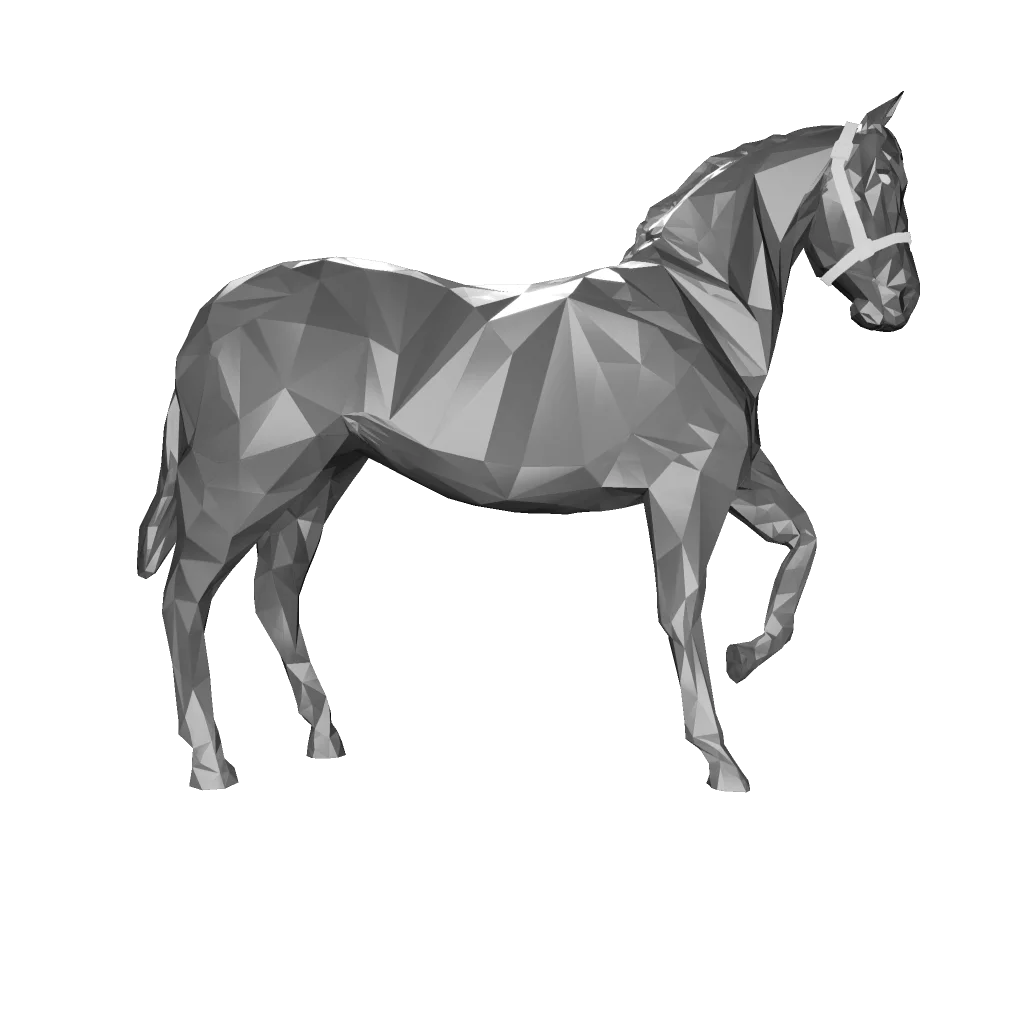
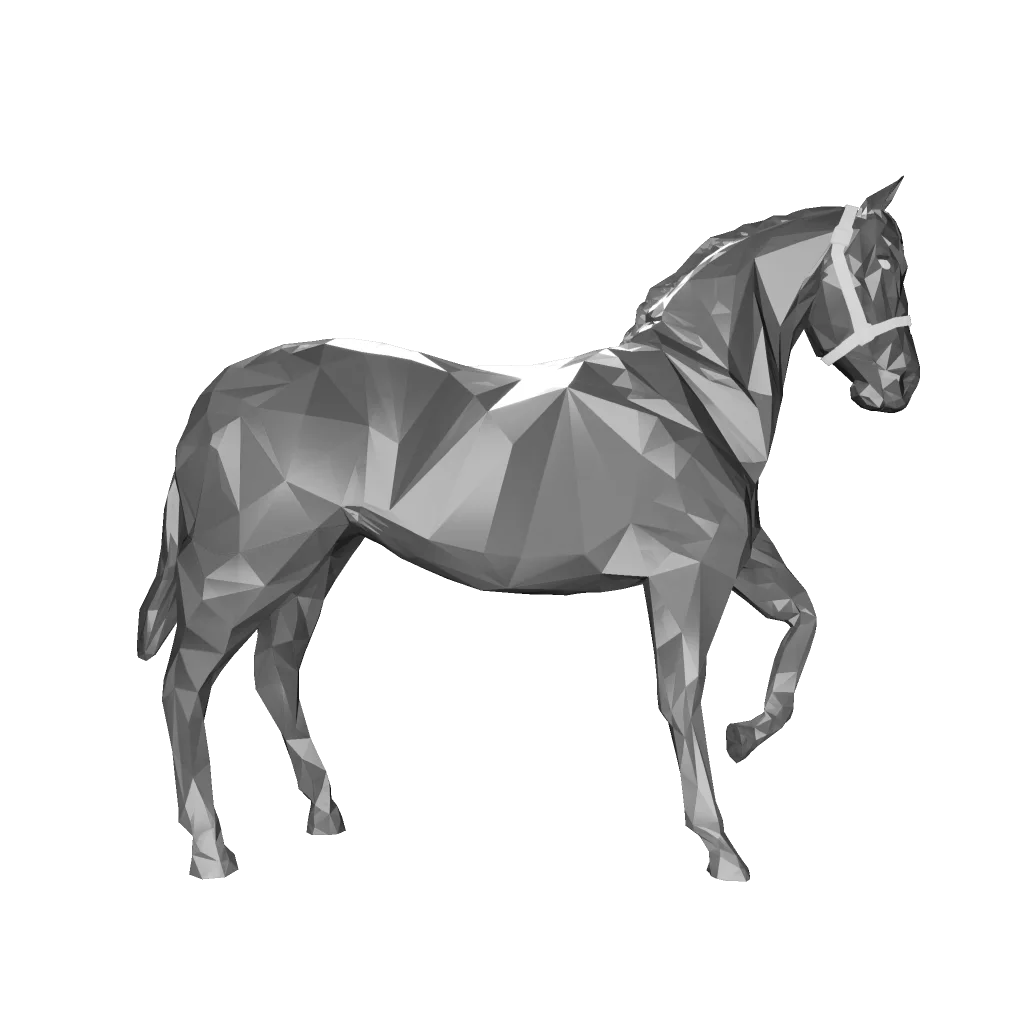
updated images

Changed region(s): [[0.125, 0.0938, 0.9062, 0.875]]

diff --git a/canvas-mask/demo3.html b/canvas-mask/demo3.html
@@ -44,7 +44,7 @@
 		        glow.onload = () => resolve({});
 		    }),
 		    new Promise((resolve, reject) => {
-		        shadow.src = "./racehorse-full-shadow-soft-1024.png";
+		        shadow.src = "./racehorse-full-shadow-1024.png";
 		        shadow.onload = () => resolve({});
 		    }),
 		];
